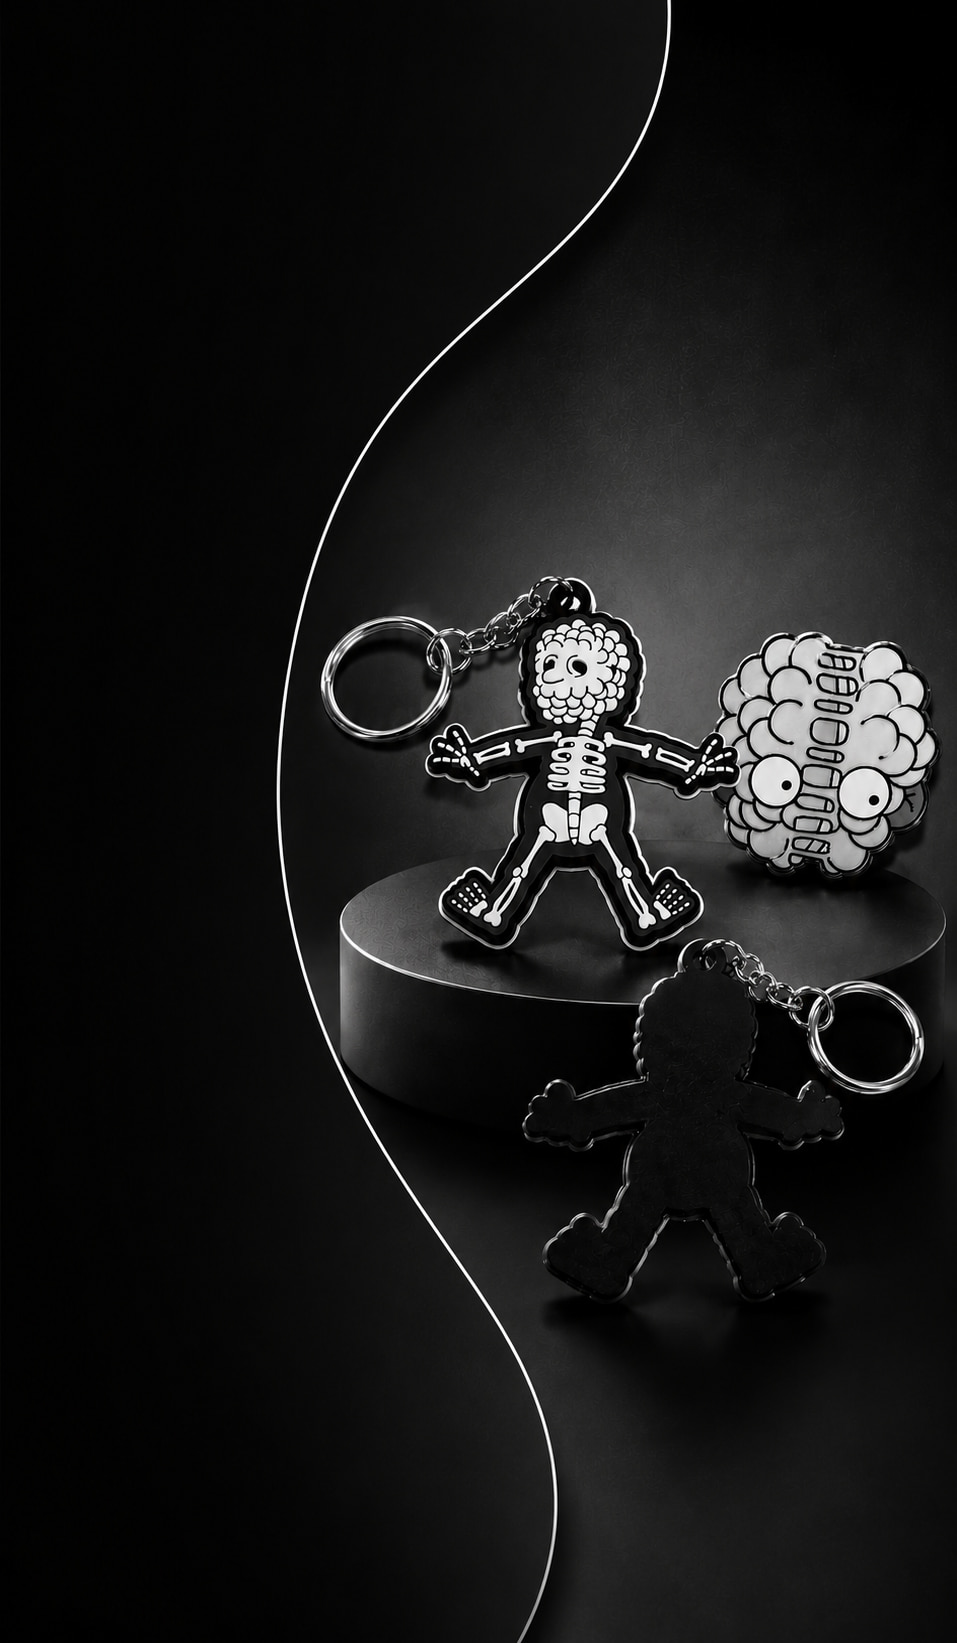
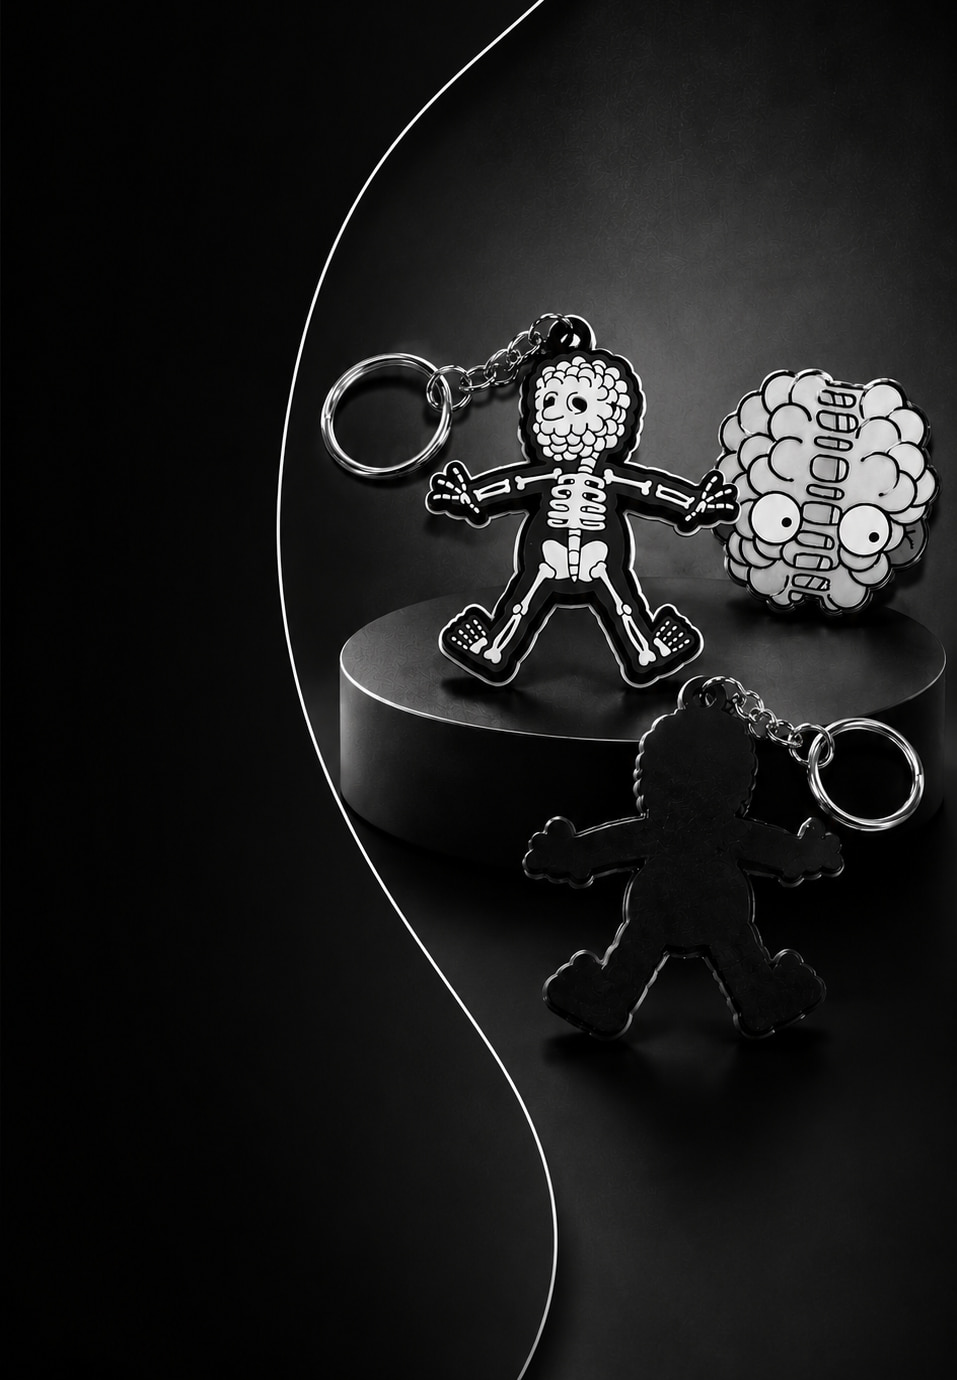
Fix the hero type sizing, and make the verification suite repeatable
The desktop headline was being squeezed into a 186px column. The overlay that
holds it is absolutely positioned and had inset-y-0 with left-0 but no right
edge, so it shrank to fit its content and the percentage width inside it
resolved against that collapsed box. Giving it inset-0 restores the column to
about 500px, and the headline now sets on one line at the display size instead
of overflowing a sliver.

The title also steps across breakpoints rather than sitting near maximum
everywhere. Below sm it runs full width beneath the image and can be large;
between sm and lg it shares the banner with the artwork in a narrow column and
steps down; at lg the column is wide enough for the full size again. Checked at
390, 640, 768, 1024, 1440 and 2560: no overflow at any of them.

On phones the hero ran to 943px against an 844px viewport, so the headline sat
below the fold and the top of the screen was the artwork's empty upper band.
The pipeline now trims that band — the one crop ever taken from supplied
artwork, and only where the artwork is empty — bringing the hero to 828px and
the whole thing inside one screen.

Two problems in the verification suite, both of which had been masking as
product bugs:

It waited a fixed 1200ms after submitting the gate rather than waiting for the
redirect, so on a loaded machine it carried on still gated and failed much
later with a confusing complaint about a missing Add to bag button. It now
waits for the navigation itself.
[…]

diff --git a/app/(store)/page.tsx b/app/(store)/page.tsx
@@ -115,15 +115,19 @@ export default function HomePage() {
             />
           </div>
 
-          <div className="sm:absolute sm:inset-y-0 sm:left-0 sm:flex sm:items-center">
-            <div className="mx-auto w-full max-w-[var(--max-width)] px-[var(--gutter)] pb-8 sm:pb-0">
-              <div className="sm:max-w-[42%]">
+          <div className="sm:absolute sm:inset-0 sm:flex sm:items-center">
+            <div className="mx-auto w-full max-w-[var(--max-width)] px-[var(--gutter)] pb-7 pt-5 sm:pb-0 sm:pt-0">
+              <div className="sm:max-w-[40%] lg:max-w-[38%]">
                 <p className="text-xs text-paper/60">Current release</p>
-                <h1 className="display mt-2 text-5xl text-paper">
+                {/* Full width below the image on mobile, so it can run large.
+                    Between sm and lg it shares the banner with the artwork in a
+                    narrow column, so it steps down; at lg the column is wide
+                    enough for the full display size again. */}
+                <h1 className="display mt-2 text-5xl text-paper sm:text-4xl lg:text-5xl">
                   Skeleton Keychain
                 </h1>
 
-                <div className="mt-5 h-px w-full max-w-[380px] bg-paper/40" />
+                <div className="mt-4 h-px w-full max-w-[380px] bg-paper/40 sm:mt-5" />
 
                 <div className="mt-4 flex flex-wrap gap-x-7 gap-y-1">
                   <span className="text-sm text-paper/60">Soft PVC</span>
@@ -131,7 +135,7 @@ export default function HomePage() {
                   <span className="text-sm text-paper/60">Sealed polybag</span>
                 </div>
 
-                <span className="link-underline mt-5 inline-block text-sm text-paper">
+                <span className="link-underline mt-4 inline-block text-sm text-paper sm:mt-5">
                   See the object
                 </span>
               </div>
